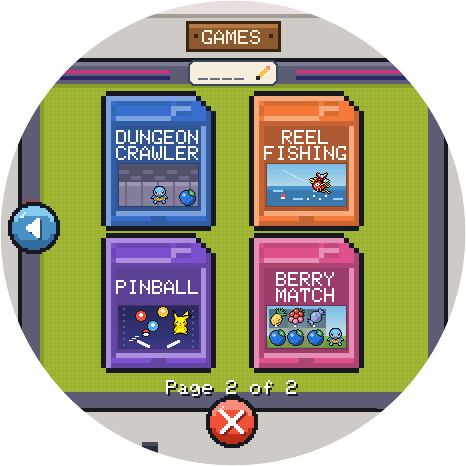
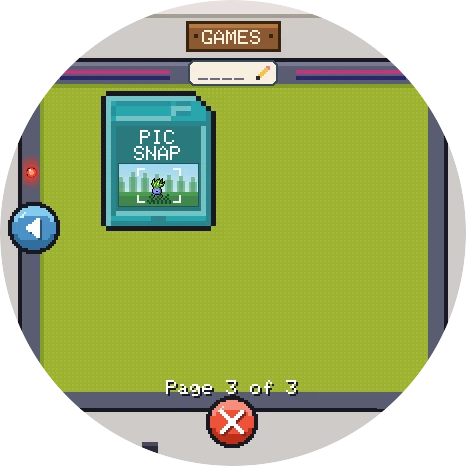
README and pages: Pic Snap as it is now; the XL held back
Fedor: "make sure everything is updated on the repo. Photos, gifs, text, audio, etc." and "We can hold back any XL
uploads ... So for now, Mac, PC, Browser, and Knomi."
- picsnap.gif retaken from the game as it is (host_shot, PSPLACE 1 25, PSBOT): Pikachu over the log under the pines,
  GREAT SHOT! +82, then Gastly at the Mansion's window, NICE SHOT! +72 and NEXT SHOT IN 3 (2.2.17's countdown); the
  prints held 300 ms a frame.
- crt-picsnap.webp: the same frames through host_crt.cpp's CRT at 664 px, in the ring of the other CRT pictures;
  "On your computer" has it as New: Pic Snap in Pinball's place, BerryMatch no longer "New".
- README: nine mini games, the newest Pic Snap; its section says the print counts down and links its song.
- HOW_IT_WORKS: the countdown; its own song (it said Travel's) and the leaderboard (it said not yet).
- The soundtrack page's games picture: the menu's third page, Pic Snap (it was page 2 of 2).
- The web game's site README: the countdown and the song.
- CHANGELOG [Unreleased]: the XL's lines taken out until its own release (kept in the side-session notes,
  waveshare/changelog-held-back.md); the shared lines say the Knomi, the Mac, Windows and the web.

diff --git a/Catch151/web/music/index.html b/Catch151/web/music/index.html
@@ -128,7 +128,7 @@
 
   <h2>The minigames</h2>
   <p>One for each game in the games menu.</p>
-  <div class="group"><img class="screen" src="img/games.webp" width="466" height="466" alt="The games menu's second page: Dungeon Crawler, Reel Fishing, Pinball and BerryMatch" loading="lazy"><div class="list" id="games"></div></div>
+  <div class="group"><img class="screen" src="img/games.webp" width="466" height="466" alt="The games menu's third page: Pic Snap, the newest cartridge" loading="lazy"><div class="list" id="games"></div></div>
 
   <h2>Big moments</h2>
   <p>Evolving, and saying goodbye.</p>

diff --git a/README.md b/README.md
@@ -13,7 +13,7 @@
   <a href="Catch151/relay/README.md"><img src="https://img.shields.io/badge/dynamic/json?url=https%3A%2F%2Fcatch151-relay.fedor-dd0.workers.dev%2Fstats&query=%24.online&label=live%20players&color=2ea043&cacheSeconds=300" alt="Live players right now"></a>
 </p>
 
-**Catch 151** (until 2.2.0 called PokeKnomiGochi) is a Pokémon game for the **BTT Knomi V2**, the little round screen made for 3D printers, and for your Mac, your Windows PC and your browser. Raise any of the original 151 as it walks through its own pixel world, battle and catch wild Pokémon, climb Knomi Tower, fill your [Pokédex](https://fedorsosnin.github.io/Catch151/sprites/), and play eight mini games by tapping and tilting, the newest BerryMatch, a berry-swapping puzzle, Pinball on a round table and a fishing contest off the Beach's pier, with a live [minigame leaderboard](#minigame-leaderboard) for each one's best.
+**Catch 151** (until 2.2.0 called PokeKnomiGochi) is a Pokémon game for the **BTT Knomi V2**, the little round screen made for 3D printers, and for your Mac, your Windows PC and your browser. Raise any of the original 151 as it walks through its own pixel world, battle and catch wild Pokémon, climb Knomi Tower, fill your [Pokédex](https://fedorsosnin.github.io/Catch151/sprites/), and play nine mini games by tapping and tilting, the newest Pic Snap, a camera on Knomi Island, then BerryMatch, a berry-swapping puzzle, Pinball on a round table and a fishing contest off the Beach's pier, with a live [minigame leaderboard](#minigame-leaderboard) for each one's best.
 
 | | |
 |:--:|:--:|
@@ -38,8 +38,8 @@ The Mac and Windows apps and the browser game, as they open: in the Poké Ball r
 | **Battle wild Pokémon** | **Climb Knomi Tower** |
 | <img src="Catch151/docs/images/v2/crt-island.webp" width="381" alt="Knomi Island with the CRT screen: five zones and the pier out to the tower"> | <img src="Catch151/docs/images/v2/crt-starters.webp" width="381" alt="Choose your starter with the CRT screen: Bulbasaur, Charmander, Squirtle and Pikachu"> |
 | **Travel Knomi Island** | **Choose your partner** |
-| <img src="Catch151/docs/images/v2/crt-pinball.webp" width="381" alt="Pinball with the CRT screen: the ball goes into the tall grass with a !, a wild Butterfree jumps into the ring in the middle, Diglett pops up between the bumpers, and each hit of the ball is Squirtle's Bite"> | <img src="Catch151/docs/images/v2/crt-berrymatch.webp" width="381" alt="BerryMatch with the CRT screen: pieces caught and refilled, a Great Ball and an Ultra Ball on the board, moves earned, and Pikachu running in to sit in the top-left corner"> |
-| **Pinball** | **New: BerryMatch** |
+| <img src="Catch151/docs/images/v2/crt-picsnap.webp" width="381" alt="Pic Snap with the CRT screen: Pikachu peeks over a log under the Forest's pines while the lens hunts for focus, then the print comes out: GREAT SHOT! +82, its focus and centre, and NEXT SHOT IN 3"> | <img src="Catch151/docs/images/v2/crt-berrymatch.webp" width="381" alt="BerryMatch with the CRT screen: pieces caught and refilled, a Great Ball and an Ultra Ball on the board, moves earned, and Pikachu running in to sit in the top-left corner"> |
+| **New: Pic Snap** | **BerryMatch** |
 
 ## Minigame Leaderboard
 
@@ -141,11 +141,11 @@ The Knomi's own 466 × 466 round screen, just as it shows the game. The computer
 
 ## New: Pic Snap
 
-<p align="center"><img src="Catch151/docs/images/v2/picsnap.gif" alt="Pic Snap: Pikachu pops up from behind a log in the Forest while the lens hunts for focus, the photo comes out as a print worth 87, then Clefairy turns up among the Cave's crystals" width="360"></p>
+<p align="center"><img src="Catch151/docs/images/v2/picsnap.gif" alt="Pic Snap: Pikachu peeks over a log under the Forest's pines while the lens hunts for focus; the photo comes out as a print, GREAT SHOT! +82; then Gastly peers out of the Mansion's lit window, and its print, NICE SHOT! +72, counts down: NEXT SHOT IN 3" width="360"></p>
 
 The newest mini game, the ninth cartridge, on the Game Boy's third page: a camera on Knomi Island. There are ten places, two in each zone (the Forest's tall grass and pines, the Beach's shore and waves, the Cave's crystals and a ledge, the Mansion's graveyard and lit window, the Field's sky and its flowers at sunset), and in each a wild Pokémon of that zone shows up: out of the grass, the sea or the dark, from behind a log or a rock, or down from the sky. It stays a few seconds, looking about, hopping and taking a few steps, while the camera drifts and its lens hunts for focus, sweeping from what's close through the Pokémon to what's far off. Tap anywhere (or click, or press Space) to snap.
 
-Each photo scores up to 50 points for focus and 50 for the Pokémon in the middle, and comes out as a print with its points. A roll is ten photos, 1,000 points at best, and ends with all ten as small prints round your score. Your best roll is kept and goes on the [leaderboard](https://fedorsosnin.github.io/Catch151/leaderboard/) with your gamer tag, and like every mini game it gives your Pokémon joy and speed training.
+Each photo scores up to 50 points for focus and 50 for the Pokémon in the middle, and comes out as a print with its points, counting down the seconds to the next photo so you're ready for it. On the Mac, Windows and the web it has a song of its own, a race for the shot ([▶&nbsp;Pic Snap](https://fedorsosnin.github.io/Catch151/music/#pic-snap)). A roll is ten photos, 1,000 points at best, and ends with all ten as small prints round your score. Your best roll is kept and goes on the [leaderboard](https://fedorsosnin.github.io/Catch151/leaderboard/) with your gamer tag, and like every mini game it gives your Pokémon joy and speed training.
 
 <p align="center"><img src="Catch151/docs/images/v2/picsnap-end.png" width="300" alt="A roll's end: 830, NEW RECORD!, So much fun!, SPD TRAINING +4, Play Again! and the Repel bar, with the ten prints round it"></p>
 

diff --git a/Catch151/CHANGELOG.md b/Catch151/CHANGELOG.md
@@ -8,15 +8,12 @@ Updating from the [web installer](https://fedorsosnin.github.io/Catch151/)
 
 ## [Unreleased]
 
-- **Pic Snap has a song of its own:** on the Mac, Windows, the web and Catch 151 XL, Pic Snap no longer borrows Travel's tune. **Pic Snap** is fast, as you hurry to get the shot before the Pokémon goes: a quick run up into each phrase, a driving beat, a galloping bass, and the shutter in the tune, its notes going off in bursts of three, click-click-click, with the drums clicking along and a clap where each phrase ends. In the middle a brass tune climbs over chords whirring like a lens racing to focus. It's on the [soundtrack page](https://fedorsosnin.github.io/Catch151/music/) too, 33 songs now. (The Knomi has no speaker, so it stays quiet.)
-- **Pic Snap opens without stopping and gets each place ready sooner, on every board:** opening it used to stop the screen for about 4 seconds before the how-to card came up, and the next place took about 10 seconds to get ready after a photo. The blur that softens what's out of focus did most of that work: it now goes through each picture once instead of about ten times, with far less work a pixel, and the dither remembers the colours it has already worked out. On the Knomi a place is now ready in about 4 seconds, the first one under the card, and aiming is smoother (a frame every 63 to 70 ms, from up to 112). The pictures are exactly the same as before.
-- **Every game's how-to card is quicker on the boards:** once the card has landed, the Knomi and Catch 151 XL work it out once and put it back each frame, darkening only the game round it, instead of drawing the whole card and darkening the whole screen every frame (56 ms a frame on the XL). It looks exactly the same. On the Mac, Windows and the web, where its button lifts under the mouse, it's drawn as before.
+- **Pic Snap has a song of its own:** on the Mac, Windows and the web, Pic Snap no longer borrows Travel's tune. **Pic Snap** is fast, as you hurry to get the shot before the Pokémon goes: a quick run up into each phrase, a driving beat, a galloping bass, and the shutter in the tune, its notes going off in bursts of three, click-click-click, with the drums clicking along and a clap where each phrase ends. In the middle a brass tune climbs over chords whirring like a lens racing to focus. It's on the [soundtrack page](https://fedorsosnin.github.io/Catch151/music/) too, 33 songs now. (The Knomi has no speaker, so it stays quiet.)
+- **Pic Snap opens without stopping and gets each place ready sooner:** on the Knomi, opening it used to stop the screen for about 4 seconds before the how-to card came up, and the next place took about 10 seconds to get ready after a photo. The blur that softens what's out of focus did most of that work: it now goes through each picture once instead of about ten times, with far less work a pixel, and the dither remembers the colours it has already worked out. A place is now ready in about 4 seconds, the first one under the card, and aiming is smoother (a frame every 63 to 70 ms, from up to 112). The pictures are exactly the same as before.
+- **Pic Snap's print is quicker:** after each photo, the print screen is drawn once and kept, instead of being redrawn every frame, so the next place gets ready sooner.
+- **Every game's how-to card is quicker on the Knomi:** once the card has landed, the Knomi works it out once and puts it back each frame, darkening only the game round it, instead of drawing the whole card and darkening the whole screen every frame. It looks exactly the same. On the Mac, Windows and the web, where its button lifts under the mouse, it's drawn as before.
 - **Pic Snap's card goes away with a swipe, as every game's does:** while you hold a finger on the screen, Pic Snap stops getting the next place ready, so the frames stay quick enough to see the swipe. Before, a quick swipe could start and end between two frames and count as a tap.
-- **Catch 151 XL shows when it's charging:** the Waveshare board has no way to see USB, so its charging bolt never came on. Now it tells from the battery's voltage, which jumps when the charger starts or stops: the bolt comes on within a second of plugging in and goes off on unplugging, and a board started while plugged in finds out within a few minutes. The percentage no longer leaps up when you plug in (8% became 40%): it only goes down on the battery and only up while charging, as on the Knomi. Nothing changes on the Knomi, the Mac, Windows or the web.
-- **Catch 151 XL is faster:** everything on the Waveshare board draws quicker. The game now draws straight into the picture the screen shows, instead of drawing it once and then copying it across, and the screen refreshes 29 times a second instead of 44, which leaves the memory more room. The home screen went from about 115 ms a frame to about 72, and Pinball from 99 to 49 ms, so the ball rolls at its real speed again (it was in slow motion). Upside down it's as quick as upright.
-- **Catch 151 XL no longer restarts mid-game:** a stray row drawn just above the screen could overwrite the touch chip's memory and restart the board (it happened in a battle and in Pinball). Each picture now has spare room around it, and the board notes what drew there.
-- **Pic Snap and BerryMatch hold the screen still:** on the Knomi and Catch 151 XL, the screen no longer turns if you tilt the board mid-game, as in the other games.
-- **Pic Snap's print is quicker:** after each photo, the print screen is drawn once and kept, instead of being redrawn every frame, so the next place gets ready sooner. On Catch 151 XL a frame there went from about 210 ms to 115.
+- **Pic Snap and BerryMatch hold the screen still:** on the Knomi, the screen no longer turns if you tilt it mid-game, as in the other games.
 
 ## [2.2.17] - 2026-11-23
 

diff --git a/Catch151/webgame/SITE_README.md b/Catch151/webgame/SITE_README.md
@@ -44,7 +44,7 @@ Tap, hold and swipe the screen, and tilt your phone to aim a Poké Ball. iPhones
 - **Battle** with the map icon: travel to a zone and search, or tap **Wild Encounter** to meet a wild Pokémon at your Pokémon's home, and catch what you beat to fill your Pokédex: tap a ball to choose it and **Throw** to throw it at the Pokémon running back and forth, leaning (or using the arrow keys) to aim. Every catch has 1 to 3 ★, and a better one replaces yours. Every 25 battles you see through earn an **Ultra Ball**, which triples the chance, and every 100 a **Master Ball**, which always catches.
 - **Knomi Tower:** on Travel, tap the arrow on the right to follow the pier out to the tower, then **CLIMB!** with a full energy bar. Your Pokémon and two friends from your Pokédex fight eight floors of type guardians and then the Legend and Mewtwo, their HP carrying over from fight to fight. **Who goes first?** marks who should win each fight. Beating the Legend earns a Master Ball every time.
 - **Reel Fishing**, the sixth cartridge: five casts off the Beach's pier. Tap the water by a fish (big shadows weigh more), tap when the float goes under, then tap to the beat to reel it in, keeping the white needle in the green of the **LINE** bar. Every fish is weighed and let go, and the total weight goes for bronze (50 kg), silver (150) and gold (300).
-- **Pic Snap**, the ninth cartridge: a camera on Knomi Island. In each of ten places a wild Pokémon pops out of the grass, the sea or the dark while the lens hunts for focus; tap (or click, or press Space) when it's sharp and in the middle. Up to 100 points a photo, ten photos a roll, and your best goes on the leaderboard.
+- **Pic Snap**, the ninth cartridge: a camera on Knomi Island. In each of ten places a wild Pokémon pops out of the grass, the sea or the dark while the lens hunts for focus; tap (or click, or press Space) when it's sharp and in the middle. Up to 100 points a photo, ten photos a roll, and your best goes on the leaderboard. Each print counts down to the next photo, and it has a song of its own, a race for the shot ([listen](https://fedorsosnin.github.io/Catch151/music/#pic-snap)).
 - On a computer, the mouse is a finger: it presses when you click, and what's under it lifts a little. The **left and right arrows** tilt, **all four arrows** walk in Dungeon Crawler, **Space** starts a wild battle (and casts, strikes and reels in Reel Fishing), and on a catch the **left and right arrows** choose a ball and **Space** or the **up arrow** throws it.
 
 ## Training

diff --git a/Catch151/docs/HOW_IT_WORKS.md b/Catch151/docs/HOW_IT_WORKS.md
@@ -131,10 +131,11 @@ A camera on Knomi Island. Ten places, two in each zone, and a wild Pokémon show
 - **It shows up** out of the grass, from behind a log, a rock or a rail, out of the sea, down from the sky or out of the dark. It stays about 7 seconds (5 by the last photo). While it's there it breathes, looks about, hops and takes a few steps. Then it's gone: **IT GOT AWAY!** scores nothing.
 - **The camera** drifts on its own, a little more as the roll goes on. Its lens hunts for focus: the sharp part sweeps from the things close by (big grass, a starfish, a tombstone) through the Pokémon to the things far off, and back. Every sweep crosses the Pokémon, and now and then it rests on it for a moment. Out of focus is drawn in the place's own colours, dithered like the game's skies.
 - **Snap:** tap anywhere. On a computer, click or press Space (the Knomi's button too). One photo a place.
-- **The score:** up to 50 for focus and up to 50 for the Pokémon in the middle: 100 a photo, 1,000 a roll. The print says **PERFECT!** at 95, **GREAT SHOT!** at 80, **NICE SHOT!** at 55, or what let it down: **A BIT BLURRY** or **OFF CENTER**. Tap the print to go on.
+- **The score:** up to 50 for focus and up to 50 for the Pokémon in the middle: 100 a photo, 1,000 a roll. The print says **PERFECT!** at 95, **GREAT SHOT!** at 80, **NICE SHOT!** at 55, or what let it down: **A BIT BLURRY** or **OFF CENTER**. At its foot, in gold, it counts down the seconds to the next photo (**NEXT SHOT IN 3**, then **GET READY!**), so you're ready for it; tap the print to go on sooner.
 - **The end:** your ten photos small, each with its points, then the score and your record.
 - **Rewards:** joy and speed training from the score, a point for every 40, as the table above. Waiting for the moment scores about 750 to 850; tapping at any old moment, about 400.
-- On a computer and the web it plays Travel's song. It isn't on the online leaderboard yet.
+- **Its song:** on a computer and the web it plays its own, **Pic Snap**, a race for the shot, its tune going off in bursts of three like a shutter ([listen](https://fedorsosnin.github.io/Catch151/music/#pic-snap)). The Knomi has no speaker.
+- **The leaderboard:** your best roll goes on the [online leaderboard](https://fedorsosnin.github.io/Catch151/leaderboard/) with your gamer tag.
 
 ## Battles
 
